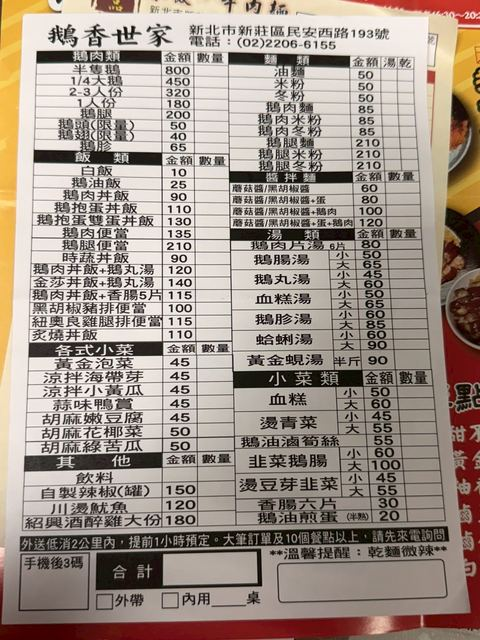
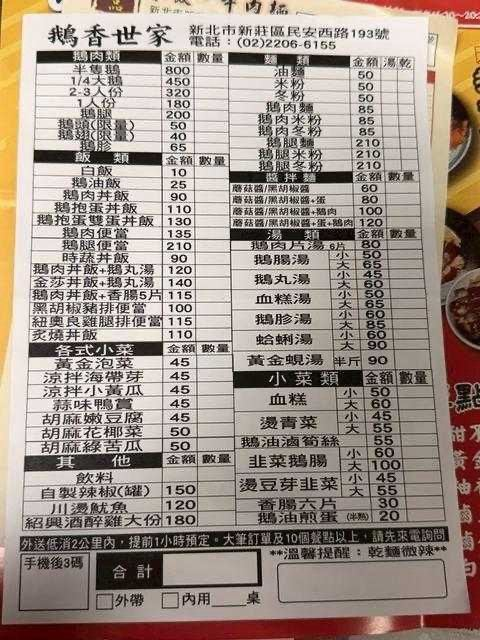
生活/吃 新增4家（呷尚宝、勁牛肉麵館、吃吃台式丼飯、錦涼麵），鵝香世家換清晰版菜單照

diff --git a/docs/index.html b/docs/index.html
@@ -289,7 +289,7 @@
 <div class="toast" id="toast"></div>
 
 <script>
-const DATA = [{"id":"值班","name":"值班","icon":"","hideLabel":true,"categories":[{"id":"值班/懶到底","name":"懶到底","icon":"⏱","type":"embed","desc":"值班時段任務清單，跨裝置即時同步","body":"","items":[],"files":[],"images":[],"works":[],"embed":"assets/%E5%80%BC%E7%8F%AD/%E6%87%B6%E5%88%B0%E5%BA%95/%E6%87%B6%E5%88%B0%E5%BA%95.html","count":0,"search":"懶到底 值班時段任務清單，跨裝置即時同步 "}]},{"id":"生活","name":"生活","icon":"","hideLabel":false,"categories":[{"id":"生活/吃","name":"吃","icon":"","type":"gallery","desc":"","body":"","items":[{"id":"生活/吃/中港牛肉麵","title":"中港牛肉麵","img":"assets/%E7%94%9F%E6%B4%BB/%E5%90%83/%E4%B8%AD%E6%B8%AF%E7%89%9B%E8%82%89%E9%BA%B5.jpg","thumb":"assets/%E7%94%9F%E6%B4%BB/%E5%90%83/thumbs/%E4%B8%AD%E6%B8%AF%E7%89%9B%E8%82%89%E9%BA%B5.jpg","phone":"","address":"","tags":[],"note":"","files":[],"search":"中港牛肉麵    "},{"id":"生活/吃/傳品","title":"傳品","img":"assets/%E7%94%9F%E6%B4%BB/%E5%90%83/%E5%82%B3%E5%93%81.jpg","thumb":"assets/%E7%94%9F%E6%B4%BB/%E5%90%83/thumbs/%E5%82%B3%E5%93%81.jpg","phone":"","address":"","tags":[],"note":"","files":[],"search":"傳品    "},{"id":"生活/吃/天香腿庫飯","title":"天香腿庫飯","img":"assets/%E7%94%9F%E6%B4%BB/%E5%90%83/%E5%A4%A9%E9%A6%99%E8%85%BF%E5%BA%AB%E9%A3%AF.jpg","thumb":"assets/%E7%94%9F%E6%B4%BB/%E5%90%83/thumbs/%E5%A4%A9%E9%A6%99%E8%85%BF%E5%BA%AB%E9%A3%AF.jpg","phone":"","address":"","tags":[],"note":"","files":[],"search":"天香腿庫飯    "},{"id":"生活/吃/尼好","title":"尼好","img":"assets/%E7%94%9F%E6%B4%BB/%E5%90%83/%E5%B0%BC%E5%A5%BD.jpg","thumb":"assets/%E7%94%9F%E6%B4%BB/%E5%90%83/thumbs/%E5%B0%BC%E5%A5%BD.jpg","phone":"","address":"","tags":[],"note":"","files":[],"search":"尼好    "},{"id":"生活/吃/川豫","title":"川豫","img":"assets/%E7%94%9F%E6%B4%BB/%E5%90%83/%E5%B7%9D%E8%B1%AB.jpg","thumb":"assets/%E7%94%9F%E6%B4%BB/%E5%90%83/thumbs/%E5%B7%9D%E8%B1%AB.jpg","phone":"","address":"","tags":[],"note":"","files":[],"search":"川豫    "},{"id":"生活/吃/帝品水餃牛肉麵","title":"帝品水餃牛肉麵","img":"assets/%E7%94%9F%E6%B4%BB/%E5%90%83/%E5%B8%9D%E5%93%81%E6%B0%B4%E9%A4%83%E7%89%9B%E8%82%89%E9%BA%B5.jpg","thumb":"assets/%E7%94%9F%E6%B4%BB/%E5%90%83/thumbs/%E5%B8%9D%E5%93%81%E6%B0%B4%E9%A4%83%E7%89%9B%E8%82%89%E9%BA%B5.jpg","phone":"","address":"","tags":[],"note":"","files":[],"search":"帝品水餃牛肉麵    "},{"id":"生活/吃/文寶鵝肉館","title":"文寶鵝肉館","img":"assets/%E7%94%9F%E6%B4%BB/%E5%90%83/%E6%96%87%E5%AF%B6%E9%B5%9D%E8%82%89%E9%A4%A8.jpg","thumb":"assets/%E7%94%9F%E6%B4%BB/%E5%90%83/thumbs/%E6%96%87%E5%AF%B6%E9%B5%9D%E8%82%89%E9%A4%A8.jpg","phone":"","address":"","tags":[],"note":"","files":[],"search":"文寶鵝肉館    "},{"id":"生活/吃/炒燴香","title":"炒燴香","img":"assets/%E7%94%9F%E6%B4%BB/%E5%90%83/%E7%82%92%E7%87%B4%E9%A6%99.jpg","thumb":"assets/%E7%94%9F%E6%B4%BB/%E5%90%83/thumbs/%E7%82%92%E7%87%B4%E9%A6%99.jpg","phone":"","address":"","tags":[],"note":"","files":[],"search":"炒燴香    "},{"id":"生活/吃/鐵皮屋","title":"鐵皮屋","img":"assets/%E7%94%9F%E6%B4%BB/%E5%90%83/%E9%90%B5%E7%9A%AE%E5%B1%8B.jpg","thumb":"assets/%E7%94%9F%E6%B4%BB/%E5%90%83/thumbs/%E9%90%B5%E7%9A%AE%E5%B1%8B.jpg","phone":"","address":"","tags":[],"note":"","files":[],"search":"鐵皮屋    "},{"id":"生活/吃/阿忠","title":"阿忠","img":"assets/%E7%94%9F%E6%B4%BB/%E5%90%83/%E9%98%BF%E5%BF%A0.jpg","thumb":"assets/%E7%94%9F%E6%B4%BB/%E5%90%83/thumbs/%E9%98%BF%E5%BF%A0.jpg","phone":"","address":"","tags":[],"note":"","files":[],"search":"阿忠    "},{"id":"生活/吃/雙鳳","title":"雙鳳","img":"assets/%E7%94%9F%E6%B4%BB/%E5%90%83/%E9%9B%99%E9%B3%B3.jpg","thumb":"assets/%E7%94%9F%E6%B4%BB/%E5%90%83/thumbs/%E9%9B%99%E9%B3%B3.jpg","phone":"","address":"","tags":[],"note":"","files":[],"search":"雙鳳    "},{"id":"生活/吃/香港鳳翔燒臘","title":"香港鳳翔燒臘","img":"assets/%E7%94%9F%E6%B4%BB/%E5%90%83/%E9%A6%99%E6%B8%AF%E9%B3%B3%E7%BF%94%E7%87%92%E8%87%98.jpg","thumb":"assets/%E7%94%9F%E6%B4%BB/%E5%90%83/thumbs/%E9%A6%99%E6%B8%AF%E9%B3%B3%E7%BF%94%E7%87%92%E8%87%98.jpg","phone":"","address":"","tags":[],"note":"","files":[],"search":"香港鳳翔燒臘    "},{"id":"生活/吃/鵝香世家","title":"鵝香世家","img":"assets/%E7%94%9F%E6%B4%BB/%E5%90%83/%E9%B5%9D%E9%A6%99%E4%B8%96%E5%AE%B6.jpg","thumb":"assets/%E7%94%9F%E6%B4%BB/%E5%90%83/thumbs/%E9%B5%9D%E9%A6%99%E4%B8%96%E5%AE%B6.jpg","phone":"","address":"","tags":[],"note":"","files":[],"search":"鵝香世家    "}],"files":[],"images":[],"works":[],"embed":"","count":13,"search":"吃  "},{"id":"生活/喝","name":"喝","icon":"","type":"gallery","desc":"","body":"","items":[{"id":"生活/喝/一沫日","title":"一沫日","img":"assets/%E7%94%9F%E6%B4%BB/%E5%96%9D/%E4%B8%80%E6%B2%AB%E6%97%A5.jpg","thumb":"assets/%E7%94%9F%E6%B4%BB/%E5%96%9D/thumbs/%E4%B8%80%E6%B2%AB%E6%97%A5.jpg","phone":"","address":"","tags":[],"note":"","files":[],"search":"一沫日    "},{"id":"生活/喝/參杯","title":"參杯","img":"assets/%E7%94%9F%E6%B4%BB/%E5%96%9D/%E5%8F%83%E6%9D%AF.jpg","thumb":"assets/%E7%94%9F%E6%B4%BB/%E5%96%9D/thumbs/%E5%8F%83%E6%9D%AF.jpg","phone":"","address":"","tags":[],"note":"","files":[],"search":"參杯    "},{"id":"生活/喝/小茶齋","title":"小茶齋","img":"assets/%E7%94%9F%E6%B4%BB/%E5%96%9D/%E5%B0%8F%E8%8C%B6%E9%BD%8B.jpg","thumb":"assets/%E7%94%9F%E6%B4%BB/%E5%96%9D/thumbs/%E5%B0%8F%E8%8C%B6%E9%BD%8B.jpg","phone":"","address":"","tags":[],"note":"","files":[],"search":"小茶齋    "},{"id":"生活/喝/得正","title":"得正","img":"assets/%E7%94%9F%E6%B4%BB/%E5%96%9D/%E5%BE%97%E6%AD%A3.jpg","thumb":"assets/%E7%94%9F%E6%B4%BB/%E5%96%9D/thumbs/%E5%BE%97%E6%AD%A3.jpg","phone":"","address":"","tags":[],"note":"","files":[],"search":"得正    "},{"id":"生活/喝/沫飲","title":"沫飲","img":"assets/%E7%94%9F%E6%B4%BB/%E5%96%9D/%E6%B2%AB%E9%A3%B2.jpg","thumb":"assets/%E7%94%9F%E6%B4%BB/%E5%96%9D/thumbs/%E6%B2%AB%E9%A3%B2.jpg","phone":"","address":"","tags":[],"note":"","files":[],"search":"沫飲    "},{"id":"生活/喝/無名","title":"無名","img":"assets/%E7%94%9F%E6%B4%BB/%E5%96%9D/%E7%84%A1%E5%90%8D.jpg","thumb":"assets/%E7%94%9F%E6%B4%BB/%E5%96%9D/thumbs/%E7%84%A1%E5%90%8D.jpg","phone":"","address":"","tags":[],"note":"","files":[],"search":"無名    "},{"id":"生活/喝/紅茶老爹","title":"紅茶老爹","img":"assets/%E7%94%9F%E6%B4%BB/%E5%96%9D/%E7%B4%85%E8%8C%B6%E8%80%81%E7%88%B9.jpg","thumb":"assets/%E7%94%9F%E6%B4%BB/%E5%96%9D/thumbs/%E7%B4%85%E8%8C%B6%E8%80%81%E7%88%B9.jpg","phone":"","address":"","tags":[],"note":"","files":[],"search":"紅茶老爹    "},{"id":"生活/喝/金剛咖啡茶飲","title":"金剛咖啡茶飲","img":"assets/%E7%94%9F%E6%B4%BB/%E5%96%9D/%E9%87%91%E5%89%9B%E5%92%96%E5%95%A1%E8%8C%B6%E9%A3%B2.jpg","thumb":"assets/%E7%94%9F%E6%B4%BB/%E5%96%9D/thumbs/%E9%87%91%E5%89%9B%E5%92%96%E5%95%A1%E8%8C%B6%E9%A3%B2.jpg","phone":"","address":"","tags":[],"note":"","files":[],"search":"金剛咖啡茶飲    "}],"files":[],"images":[],"works":[],"embed":"","count":8,"search":"喝  "}]},{"id":"公務","name":"公務","icon":"","hideLabel":false,"categories":[{"id":"公務/明顯死亡","name":"明顯死亡","icon":"⚠","type":"doc","desc":"現場明顯死亡判定速查與通報公文","body":"","items":[],"files":[{"name":"緊急救護明顯死亡通報公文.pdf","stem":"緊急救護明顯死亡通報公文","ext":"PDF","size":"152.0 KB","url":"assets/%E5%85%AC%E5%8B%99/%E6%98%8E%E9%A1%AF%E6%AD%BB%E4%BA%A1/files/%E7%B7%8A%E6%80%A5%E6%95%91%E8%AD%B7%E6%98%8E%E9%A1%AF%E6%AD%BB%E4%BA%A1%E9%80%9A%E5%A0%B1%E5%85%AC%E6%96%87.pdf"}],"images":[{"full":"assets/%E5%85%AC%E5%8B%99/%E6%98%8E%E9%A1%AF%E6%AD%BB%E4%BA%A1/1-%E5%88%A4%E5%AE%9A%E9%80%9F%E6%9F%A5%E8%A1%A8.jpg","alt":"判定速查表"},{"full":"assets/%E5%85%AC%E5%8B%99/%E6%98%8E%E9%A1%AF%E6%AD%BB%E4%BA%A1/2-%E9%80%9A%E5%A0%B1%E5%85%AC%E6%96%87%E7%AC%AC1%E9%A0%81.jpg","alt":"通報公文第1頁"},{"full":"assets/%E5%85%AC%E5%8B%99/%E6%98%8E%E9%A1%AF%E6%AD%BB%E4%BA%A1/3-%E9%80%9A%E5%A0%B1%E5%85%AC%E6%96%87%E7%AC%AC2%E9%A0%81.jpg","alt":"通報公文第2頁"}],"works":[],"embed":"","count":1,"search":"明顯死亡 現場明顯死亡判定速查與通報公文  緊急救護明顯死亡通報公文.pdf 判定速查表 通報公文第1頁 通報公文第2頁"},{"id":"公務/動物","name":"動物","icon":"🐾","type":"gallery","desc":"送交動物切結書","body":"","items":[{"id":"公務/動物/送交動物切結書","title":"送交動物切結書","img":"assets/%E5%85%AC%E5%8B%99/%E5%8B%95%E7%89%A9/%E9%80%81%E4%BA%A4%E5%8B%95%E7%89%A9%E5%88%87%E7%B5%90%E6%9B%B8.jpg","thumb":"assets/%E5%85%AC%E5%8B%99/%E5%8B%95%E7%89%A9/thumbs/%E9%80%81%E4%BA%A4%E5%8B%95%E7%89%A9%E5%88%87%E7%B5%90%E6%9B%B8.jpg","phone":"","address":"","tags":["動保處"],"note":"<p><strong>收件前：需要拍下送來民眾的身分證正面。</strong></p>\n<p>動保處電話：<a href=\"tel:0229596353\" target=\"_blank\" rel=\"noopener\">02-2959-6353</a></p>","files":[{"name":"新北市送交動物切結書.pdf","stem":"新北市送交動物切結書","ext":"PDF","size":"80.7 KB","url":"assets/%E5%85%AC%E5%8B%99/%E5%8B%95%E7%89%A9/%E9%80%81%E4%BA%A4%E5%8B%95%E7%89%A9%E5%88%87%E7%B5%90%E6%9B%B8/%E6%96%B0%E5%8C%97%E5%B8%82%E9%80%81%E4%BA%A4%E5%8B%95%E7%89%A9%E5%88%87%E7%B5%90%E6%9B%B8.pdf"}],"search":"送交動物切結書  動保處 **收件前：需要拍下送來民眾的身分證正面。**\n\n動保處電話：[02-2959-6353](tel:0229596353) 新北市送交動物切結書.pdf"}],"files":[],"images":[],"works":[],"embed":"","count":1,"search":"動物 送交動物切結書 "},{"id":"公務/AED上傳","name":"AED上傳","icon":"🫀","type":"doc","desc":"AED（ZOLL）資料上傳與匯出流程","body":"","items":[],"files":[],"images":[{"full":"assets/%E5%85%AC%E5%8B%99/AED%E4%B8%8A%E5%82%B3/1.jpg","alt":"1"},{"full":"assets/%E5%85%AC%E5%8B%99/AED%E4%B8%8A%E5%82%B3/2.jpg","alt":"2"},{"full":"assets/%E5%85%AC%E5%8B%99/AED%E4%B8%8A%E5%82%B3/3.jpg","alt":"3"},{"full":"assets/%E5%85%AC%E5%8B%99/AED%E4%B8%8A%E5%82%B3/4.jpg","alt":"4"},{"full":"assets/%E5%85%AC%E5%8B%99/AED%E4%B8%8A%E5%82%B3/5.jpg","alt":"5"},{"full":"assets/%E5%85%AC%E5%8B%99/AED%E4%B8%8A%E5%82%B3/6.jpg","alt":"6"}],"works":[],"embed":"","count":0,"search":"aed上傳 aed（zoll）資料上傳與匯出流程  1 2 3 4 5 6"},{"id":"公務/工作","name":"工作","icon":"📝","type":"work","desc":"值班、常訓、宣導、肌力訓練、火警範本，點「複製文字」貼到 LINE 群組","body":"","items":[],"files":[],"images":[],"works":[{"title":"值班工作","text":"1. EMS*1\n2.無線電交接正確\n3.維護駐地人車安全管制\n4. 45車、46車在隊"},{"title":"常訓電子工作","text":"1.常訓時間:1500~1700\n2.常訓地點:分隊駐地\n3.常訓科目:術科、學科訓練\n4.常訓內容:\n5.常訓教官:張家瑋、劉家權、李枝青小隊長\n6.訓練人員:共5人。"},{"title":"宣導工作","text":"一、出勤人員:隊員\n二、宣導地點:\n三、宣導時間:\n四、宣導項目:\n五、宣導人次:人"},{"title":"肌力訓練工作","text":"1.常訓時間:1700~2100\n2.常訓地點:分隊駐地\n3.常訓科目:肌力訓練\n4.常訓內容: 體能訓練\n5.常訓教官:劉家權小隊長"},{"title":"火警工作","text":"1.出勤時間:\n2.地點: 新北市新莊區\n3.出動人車:11.16.61.31.91警消5名\n4.帶隊官:福營678號\n5.火場安全管理機制:\n6.現場狀況:\n7.搶救作為:"}],"embed":"","count":5,"search":"工作 值班、常訓、宣導、肌力訓練、火警範本，點「複製文字」貼到 line 群組 ## 值班工作\n1. ems*1\n2.無線電交接正確\n3.維護駐地人車安全管制\n4. 45車、46車在隊\n\n## 常訓電子工作\n1.常訓時間:1500~1700\n2.常訓地點:分隊駐地\n3.常訓科目:術科、學科訓練\n4.常訓內容:\n5.常訓教官:張家瑋、劉家權、李枝青小隊長\n6.訓練人員:共5人。\n\n## 宣導工作\n一、出勤人員:隊員\n二、宣導地點:\n三、宣導時間:\n四、宣導項目:\n五、宣導人次:人\n\n## 肌力訓練工作\n1.常訓時間:1700~2100\n2.常訓地點:分隊駐地\n3.常訓科目:肌力訓練\n4.常訓內容: 體能訓練\n5.常訓教官:劉家權小隊長\n\n## 火警工作\n1.出勤時間:\n2.地點: 新北市新莊區\n3.出動人車:11.16.61.31.91警消5名\n4.帶隊官:福營678號\n5.火場安全管理機制:\n6.現場狀況:\n7.搶救作為:"},{"id":"公務/扣床","name":"扣床","icon":"🛏","type":"doc","desc":"扣床、借床、取床標準流程與各院電話，點電話直接撥打","body":"<h2>電話確認（點擊直接撥打）</h2>\n<ul class=\"bullets\"><li>中港：<a href=\"tel:0285216119,5213\" target=\"_blank\" rel=\"noopener\">02-8521-6119 轉 5213</a></li><li>文化：<a href=\"tel:0226089803,5225\" target=\"_blank\" rel=\"noopener\">02-2608-9803 轉 5225</a></li><li>林口：<a href=\"tel:0226011166,5226\" target=\"_blank\" rel=\"noopener\">02-2601-1166 轉 5226</a></li></ul>","items":[],"files":[],"images":[{"full":"assets/%E5%85%AC%E5%8B%99/%E6%89%A3%E5%BA%8A/1.%E6%89%A3%E5%BA%8A%E3%80%81%E5%80%9F%E5%BA%8A%E6%B5%81%E7%A8%8B.jpg","alt":"1.扣床、借床流程"},{"full":"assets/%E5%85%AC%E5%8B%99/%E6%89%A3%E5%BA%8A/2.%E5%8F%96%E5%BA%8A%E6%B5%81%E7%A8%8B.jpg","alt":"2.取床流程"},{"full":"assets/%E5%85%AC%E5%8B%99/%E6%89%A3%E5%BA%8A/3.%E6%B2%92%E5%BA%8A%E6%B5%81%E7%A8%8B.jpg","alt":"3.沒床流程"},{"full":"assets/%E5%85%AC%E5%8B%99/%E6%89%A3%E5%BA%8A/4.%E6%9E%97%E5%8F%A3%E9%95%B7%E5%BA%9A%E7%89%B9%E6%AE%8A%E6%B5%81%E7%A8%8B.jpg","alt":"4.林口長庚特殊流程"}],"works":[],"embed":"","count":0,"search":"扣床 扣床、借床、取床標準流程與各院電話，點電話直接撥打 ## 電話確認（點擊直接撥打）\n- 中港：[02-8521-6119 轉 5213](tel:0285216119,5213)\n- 文化：[02-2608-9803 轉 5225](tel:0226089803,5225)\n- 林口：[02-2601-1166 轉 5226](tel:0226011166,5226) 1.扣床、借床流程 2.取床流程 3.沒床流程 4.林口長庚特殊流程"},{"id":"公務/業務職掌","name":"業務職掌","icon":"📋","type":"doc","desc":"依業務科別查詢承辦人，115.08.01 第五版","body":"<h2>小隊長綜理督導</h2>\n<ul class=\"bullets\"><li>綜理本分隊各項勤、業務工作 → <strong>張家瑋</strong></li><li>業管及督導本分隊搶救科、職安室、救護科、指揮中心、宣導科、人事室業務 → <strong>劉家權</strong></li><li>業管及督導本分隊訓練科、資通科、整備科、滅災科、火災鑑識中心、車輛保養中心、會計室業務 → <strong>李枝青</strong></li></ul>\n<h2>會計室</h2>\n<ul class=\"bullets\"><li>總務 → <strong>蔡宗延</strong></li></ul>\n<h2>秘書室</h2>\n<ul class=\"bullets\"><li>水電統計、廳舍修繕、財產及物品管理 → <strong>蔡宗延</strong></li><li>伙食管理、簿冊及文書檔案管理 → <strong>蘇偉銘</strong></li></ul>\n<h2>政風室</h2>\n<ul class=\"bullets\"><li>銅鏡專案 → <strong>蔡宗延</strong></li></ul>\n<h2>資通科</h2>\n<ul class=\"bullets\"><li>資通訊及無線電管理 → <strong>賴啟宏</strong></li></ul>\n<h2>整備科</h2>\n<ul class=\"bullets\"><li>災情查通報、社區防災演習支援規劃 → <strong>賴啟宏</strong></li></ul>\n<h2>滅災科</h2>\n<ul class=\"bullets\"><li>防災企業、防災社區、地震體驗車 → <strong>賴啟宏</strong></li></ul>\n<h2>救護科</h2>\n<ul class=\"bullets\"><li>救護紀錄表（EPCR）審核管理（紙本）、救護月報表（慰問卡、救護車行車紀錄器、教學及複訓時數成果） → <strong>柯醒翰</strong></li><li>救護（防疫）器耗材管理、OHCA及特殊案件影片彙整、救護品管案件、救護CPR宣導、救護交辦案件 → <strong>林景煒</strong></li></ul>\n<h2>預防科</h2>\n<ul class=\"bullets\"><li>防火管理資料受理＆審核、公安聯合稽查 → <strong>徐子軒</strong></li><li>防火（防溺）宣導業務、清明專案、防災青年團招募 → <strong>吳姵岫</strong></li><li>脆弱家庭提報、工廠診斷、防災報馬仔、住警器專案、災後訪視、學生賃居專案 → <strong>喻瑋萱</strong></li><li>服務區專案、安管系統管理、未成立管委會場所管制、停歇系統管理 → <strong>張浩偉</strong></li></ul>\n<h2>危管科</h2>\n<ul class=\"bullets\"><li>爆竹煙火管理、宮廟查察、違建活動 → <strong>吳姵岫</strong></li><li>熱水器補助審查、燃氣熱水器承裝業檢查、CO居訪、潛勢戶複查 → <strong>張家豪</strong></li><li>危險物品暨可燃性氣體、液化石油氣供應場所及瓦斯行查察 → <strong>楊典元</strong></li></ul>\n<h2>搶救科</h2>\n<ul class=\"bullets\"><li>水源業務 → <strong>林育叡</strong></li><li>搶救裝備器材管理、盤點系統 → <strong>陳矩蕙</strong></li><li>火災搶救資料庫製作管理、分隊代表隊、大隊實兵演練、搶救類案件敘獎 → <strong>謝佳諫</strong></li></ul>\n<h2>指揮中心</h2>\n<ul class=\"bullets\"><li>指揮中心相關業務 → <strong>林景煒</strong></li></ul>\n<h2>人事室</h2>\n<ul class=\"bullets\"><li>假表管理、超勤、不休假獎金、國旅卡核銷管制、健康檢查核銷作業、替代役管理、新生報表 → <strong>朱文豪</strong></li><li>分隊康樂活動辦理 → <strong>楊典元</strong></li></ul>\n<h2>火鑑中心</h2>\n<ul class=\"bullets\"><li>火調筆錄、火災證明管理、子女獎學金 → <strong>喻瑋萱</strong></li></ul>\n<h2>車保中心</h2>\n<ul class=\"bullets\"><li>車輛保養管控、油料核銷及路碼表登錄、行車紀錄影像抽測管理、人員駕駛訓練 → <strong>蘇偉銘</strong></li></ul>\n<h2>職安室</h2>\n<ul class=\"bullets\"><li>職安股業務協辦 → <strong>謝佳諫</strong></li></ul>\n<h2>訓練科</h2>\n<ul class=\"bullets\"><li>訓練科相關業務 → <strong>張睿哲</strong></li></ul>\n<h2>民力科</h2>\n<ul class=\"bullets\"><li>義消業務承辦 → <strong>尤睿蓁</strong></li><li>防宣義消業務辦 → <strong>葉奕鑫</strong></li></ul>","items":[],"files":[],"images":[],"works":[],"embed":"","count":0,"search":"業務職掌 依業務科別查詢承辦人，115.08.01 第五版 ## 小隊長綜理督導\n- 綜理本分隊各項勤、業務工作 → **張家瑋**\n- 業管及督導本分隊搶救科、職安室、救護科、指揮中心、宣導科、人事室業務 → **劉家權**\n- 業管及督導本分隊訓練科、資通科、整備科、滅災科、火災鑑識中心、車輛保養中心、會計室業務 → **李枝青**\n\n## 會計室\n- 總務 → **蔡宗延**\n\n## 秘書室\n- 水電統計、廳舍修繕、財產及物品管理 → **蔡宗延**\n- 伙食管理、簿冊及文書檔案管理 → **蘇偉銘**\n\n## 政風室\n- 銅鏡專案 → **蔡宗延**\n\n## 資通科\n- 資通訊及無線電管理 → **賴啟宏**\n\n## 整備科\n- 災情查通報、社區防災演習支援規劃 → **賴啟宏**\n\n## 滅災科\n- 防災企業、防災社區、地震體驗車 → **賴啟宏**\n\n## 救護科\n- 救護紀錄表（epcr）審核管理（紙本）、救護月報表（慰問卡、救護車行車紀錄器、教學及複訓時數成果） → **柯醒翰**\n- 救護（防疫）器耗材管理、ohca及特殊案件影片彙整、救護品管案件、救護cpr宣導、救護交辦案件 → **林景煒**\n\n## 預防科\n- 防火管理資料受理＆審核、公安聯合稽查 → **徐子軒**\n- 防火（防溺）宣導業務、清明專案、防災青年團招募 → **吳姵岫**\n- 脆弱家庭提報、工廠診斷、防災報馬仔、住警器專案、災後訪視、學生賃居專案 → **喻瑋萱**\n- 服務區專案、安管系統管理、未成立管委會場所管制、停歇系統管理 → **張浩偉**\n\n## 危管科\n- 爆竹煙火管理、宮廟查察、違建活動 → **吳姵岫**\n- 熱水器補助審查、燃氣熱水器承裝業檢查、co居訪、潛勢戶複查 → **張家豪**\n- 危險物品暨可燃性氣體、液化石油氣供應場所及瓦斯行查察 → **楊典元**\n\n## 搶救科\n- 水源業務 → **林育叡**\n- 搶救裝備器材管理、盤點系統 → **陳矩蕙**\n- 火災搶救資料庫製作管理、分隊代表隊、大隊實兵演練、搶救類案件敘獎 → **謝佳諫**\n\n## 指揮中心\n- 指揮中心相關業務 → **林景煒**\n\n## 人事室\n- 假表管理、超勤、不休假獎金、國旅卡核銷管制、健康檢查核銷作業、替代役管理、新生報表 → **朱文豪**\n- 分隊康樂活動辦理 → **楊典元**\n\n## 火鑑中心\n- 火調筆錄、火災證明管理、子女獎學金 → **喻瑋萱**\n\n## 車保中心\n- 車輛保養管控、油料核銷及路碼表登錄、行車紀錄影像抽測管理、人員駕駛訓練 → **蘇偉銘**\n\n## 職安室\n- 職安股業務協辦 → **謝佳諫**\n\n## 訓練科\n- 訓練科相關業務 → **張睿哲**\n\n## 民力科\n- 義消業務承辦 → **尤睿蓁**\n- 防宣義消業務辦 → **葉奕鑫**"},{"id":"公務/換車操作步驟","name":"換車操作步驟","icon":"🚑","type":"doc","desc":"EPCR 系統更換車輛代碼流程與注意事項","body":"","items":[],"files":[],"images":[{"full":"assets/%E5%85%AC%E5%8B%99/%E6%8F%9B%E8%BB%8A%E6%93%8D%E4%BD%9C%E6%AD%A5%E9%A9%9F/1-%E6%93%8D%E4%BD%9C%E8%AA%AA%E6%98%8E1.jpg","alt":"操作說明1"},{"full":"assets/%E5%85%AC%E5%8B%99/%E6%8F%9B%E8%BB%8A%E6%93%8D%E4%BD%9C%E6%AD%A5%E9%A9%9F/2-%E6%93%8D%E4%BD%9C%E8%AA%AA%E6%98%8E2.jpg","alt":"操作說明2"},{"full":"assets/%E5%85%AC%E5%8B%99/%E6%8F%9B%E8%BB%8A%E6%93%8D%E4%BD%9C%E6%AD%A5%E9%A9%9F/3-%E6%B3%A8%E6%84%8F%E4%BA%8B%E9%A0%851.jpg","alt":"注意事項1"},{"full":"assets/%E5%85%AC%E5%8B%99/%E6%8F%9B%E8%BB%8A%E6%93%8D%E4%BD%9C%E6%AD%A5%E9%A9%9F/4-%E6%B3%A8%E6%84%8F%E4%BA%8B%E9%A0%852.jpg","alt":"注意事項2"}],"works":[{"title":"換車回報","text":"福營分隊，福營91(車牌)已自行變更為福營99(車牌)"}],"embed":"","count":0,"search":"換車操作步驟 epcr 系統更換車輛代碼流程與注意事項 ## 📋 換車回報\n福營分隊，福營91(車牌)已自行變更為福營99(車牌) 操作說明1 操作說明2 注意事項1 注意事項2"}]}];
+const DATA = [{"id":"值班","name":"值班","icon":"","hideLabel":true,"categories":[{"id":"值班/懶到底","name":"懶到底","icon":"⏱","type":"embed","desc":"值班時段任務清單，跨裝置即時同步","body":"","items":[],"files":[],"images":[],"works":[],"embed":"assets/%E5%80%BC%E7%8F%AD/%E6%87%B6%E5%88%B0%E5%BA%95/%E6%87%B6%E5%88%B0%E5%BA%95.html","count":0,"search":"懶到底 值班時段任務清單，跨裝置即時同步 "}]},{"id":"生活","name":"生活","icon":"","hideLabel":false,"categories":[{"id":"生活/吃","name":"吃","icon":"","type":"gallery","desc":"","body":"","items":[{"id":"生活/吃/中港牛肉麵","title":"中港牛肉麵","img":"assets/%E7%94%9F%E6%B4%BB/%E5%90%83/%E4%B8%AD%E6%B8%AF%E7%89%9B%E8%82%89%E9%BA%B5.jpg","thumb":"assets/%E7%94%9F%E6%B4%BB/%E5%90%83/thumbs/%E4%B8%AD%E6%B8%AF%E7%89%9B%E8%82%89%E9%BA%B5.jpg","phone":"","address":"","tags":[],"note":"","files":[],"search":"中港牛肉麵    "},{"id":"生活/吃/傳品","title":"傳品","img":"assets/%E7%94%9F%E6%B4%BB/%E5%90%83/%E5%82%B3%E5%93%81.jpg","thumb":"assets/%E7%94%9F%E6%B4%BB/%E5%90%83/thumbs/%E5%82%B3%E5%93%81.jpg","phone":"","address":"","tags":[],"note":"","files":[],"search":"傳品    "},{"id":"生活/吃/勁牛肉麵館","title":"勁牛肉麵館","img":"assets/%E7%94%9F%E6%B4%BB/%E5%90%83/%E5%8B%81%E7%89%9B%E8%82%89%E9%BA%B5%E9%A4%A8.jpg","thumb":"assets/%E7%94%9F%E6%B4%BB/%E5%90%83/thumbs/%E5%8B%81%E7%89%9B%E8%82%89%E9%BA%B5%E9%A4%A8.jpg","phone":"","address":"","tags":[],"note":"","files":[],"search":"勁牛肉麵館    "},{"id":"生活/吃/吃吃台式丼飯","title":"吃吃台式丼飯","img":"assets/%E7%94%9F%E6%B4%BB/%E5%90%83/%E5%90%83%E5%90%83%E5%8F%B0%E5%BC%8F%E4%B8%BC%E9%A3%AF.jpg","thumb":"assets/%E7%94%9F%E6%B4%BB/%E5%90%83/thumbs/%E5%90%83%E5%90%83%E5%8F%B0%E5%BC%8F%E4%B8%BC%E9%A3%AF.jpg","phone":"","address":"","tags":[],"note":"","files":[],"search":"吃吃台式丼飯    "},{"id":"生活/吃/呷尚宝","title":"呷尚宝","img":"assets/%E7%94%9F%E6%B4%BB/%E5%90%83/%E5%91%B7%E5%B0%9A%E5%AE%9D.jpg","thumb":"assets/%E7%94%9F%E6%B4%BB/%E5%90%83/thumbs/%E5%91%B7%E5%B0%9A%E5%AE%9D.jpg","phone":"","address":"","tags":[],"note":"","files":[],"search":"呷尚宝    "},{"id":"生活/吃/天香腿庫飯","title":"天香腿庫飯","img":"assets/%E7%94%9F%E6%B4%BB/%E5%90%83/%E5%A4%A9%E9%A6%99%E8%85%BF%E5%BA%AB%E9%A3%AF.jpg","thumb":"assets/%E7%94%9F%E6%B4%BB/%E5%90%83/thumbs/%E5%A4%A9%E9%A6%99%E8%85%BF%E5%BA%AB%E9%A3%AF.jpg","phone":"","address":"","tags":[],"note":"","files":[],"search":"天香腿庫飯    "},{"id":"生活/吃/尼好","title":"尼好","img":"assets/%E7%94%9F%E6%B4%BB/%E5%90%83/%E5%B0%BC%E5%A5%BD.jpg","thumb":"assets/%E7%94%9F%E6%B4%BB/%E5%90%83/thumbs/%E5%B0%BC%E5%A5%BD.jpg","phone":"","address":"","tags":[],"note":"","files":[],"search":"尼好    "},{"id":"生活/吃/川豫","title":"川豫","img":"assets/%E7%94%9F%E6%B4%BB/%E5%90%83/%E5%B7%9D%E8%B1%AB.jpg","thumb":"assets/%E7%94%9F%E6%B4%BB/%E5%90%83/thumbs/%E5%B7%9D%E8%B1%AB.jpg","phone":"","address":"","tags":[],"note":"","files":[],"search":"川豫    "},{"id":"生活/吃/帝品水餃牛肉麵","title":"帝品水餃牛肉麵","img":"assets/%E7%94%9F%E6%B4%BB/%E5%90%83/%E5%B8%9D%E5%93%81%E6%B0%B4%E9%A4%83%E7%89%9B%E8%82%89%E9%BA%B5.jpg","thumb":"assets/%E7%94%9F%E6%B4%BB/%E5%90%83/thumbs/%E5%B8%9D%E5%93%81%E6%B0%B4%E9%A4%83%E7%89%9B%E8%82%89%E9%BA%B5.jpg","phone":"","address":"","tags":[],"note":"","files":[],"search":"帝品水餃牛肉麵    "},{"id":"生活/吃/文寶鵝肉館","title":"文寶鵝肉館","img":"assets/%E7%94%9F%E6%B4%BB/%E5%90%83/%E6%96%87%E5%AF%B6%E9%B5%9D%E8%82%89%E9%A4%A8.jpg","thumb":"assets/%E7%94%9F%E6%B4%BB/%E5%90%83/thumbs/%E6%96%87%E5%AF%B6%E9%B5%9D%E8%82%89%E9%A4%A8.jpg","phone":"","address":"","tags":[],"note":"","files":[],"search":"文寶鵝肉館    "},{"id":"生活/吃/炒燴香","title":"炒燴香","img":"assets/%E7%94%9F%E6%B4%BB/%E5%90%83/%E7%82%92%E7%87%B4%E9%A6%99.jpg","thumb":"assets/%E7%94%9F%E6%B4%BB/%E5%90%83/thumbs/%E7%82%92%E7%87%B4%E9%A6%99.jpg","phone":"","address":"","tags":[],"note":"","files":[],"search":"炒燴香    "},{"id":"生活/吃/錦涼麵","title":"錦涼麵","img":"assets/%E7%94%9F%E6%B4%BB/%E5%90%83/%E9%8C%A6%E6%B6%BC%E9%BA%B5.jpg","thumb":"assets/%E7%94%9F%E6%B4%BB/%E5%90%83/thumbs/%E9%8C%A6%E6%B6%BC%E9%BA%B5.jpg","phone":"","address":"","tags":[],"note":"","files":[],"search":"錦涼麵    "},{"id":"生活/吃/鐵皮屋","title":"鐵皮屋","img":"assets/%E7%94%9F%E6%B4%BB/%E5%90%83/%E9%90%B5%E7%9A%AE%E5%B1%8B.jpg","thumb":"assets/%E7%94%9F%E6%B4%BB/%E5%90%83/thumbs/%E9%90%B5%E7%9A%AE%E5%B1%8B.jpg","phone":"","address":"","tags":[],"note":"","files":[],"search":"鐵皮屋    "},{"id":"生活/吃/阿忠","title":"阿忠","img":"assets/%E7%94%9F%E6%B4%BB/%E5%90%83/%E9%98%BF%E5%BF%A0.jpg","thumb":"assets/%E7%94%9F%E6%B4%BB/%E5%90%83/thumbs/%E9%98%BF%E5%BF%A0.jpg","phone":"","address":"","tags":[],"note":"","files":[],"search":"阿忠    "},{"id":"生活/吃/雙鳳","title":"雙鳳","img":"assets/%E7%94%9F%E6%B4%BB/%E5%90%83/%E9%9B%99%E9%B3%B3.jpg","thumb":"assets/%E7%94%9F%E6%B4%BB/%E5%90%83/thumbs/%E9%9B%99%E9%B3%B3.jpg","phone":"","address":"","tags":[],"note":"","files":[],"search":"雙鳳    "},{"id":"生活/吃/香港鳳翔燒臘","title":"香港鳳翔燒臘","img":"assets/%E7%94%9F%E6%B4%BB/%E5%90%83/%E9%A6%99%E6%B8%AF%E9%B3%B3%E7%BF%94%E7%87%92%E8%87%98.jpg","thumb":"assets/%E7%94%9F%E6%B4%BB/%E5%90%83/thumbs/%E9%A6%99%E6%B8%AF%E9%B3%B3%E7%BF%94%E7%87%92%E8%87%98.jpg","phone":"","address":"","tags":[],"note":"","files":[],"search":"香港鳳翔燒臘    "},{"id":"生活/吃/鵝香世家","title":"鵝香世家","img":"assets/%E7%94%9F%E6%B4%BB/%E5%90%83/%E9%B5%9D%E9%A6%99%E4%B8%96%E5%AE%B6.jpg","thumb":"assets/%E7%94%9F%E6%B4%BB/%E5%90%83/thumbs/%E9%B5%9D%E9%A6%99%E4%B8%96%E5%AE%B6.jpg","phone":"","address":"","tags":[],"note":"","files":[],"search":"鵝香世家    "}],"files":[],"images":[],"works":[],"embed":"","count":17,"search":"吃  "},{"id":"生活/喝","name":"喝","icon":"","type":"gallery","desc":"","body":"","items":[{"id":"生活/喝/一沫日","title":"一沫日","img":"assets/%E7%94%9F%E6%B4%BB/%E5%96%9D/%E4%B8%80%E6%B2%AB%E6%97%A5.jpg","thumb":"assets/%E7%94%9F%E6%B4%BB/%E5%96%9D/thumbs/%E4%B8%80%E6%B2%AB%E6%97%A5.jpg","phone":"","address":"","tags":[],"note":"","files":[],"search":"一沫日    "},{"id":"生活/喝/參杯","title":"參杯","img":"assets/%E7%94%9F%E6%B4%BB/%E5%96%9D/%E5%8F%83%E6%9D%AF.jpg","thumb":"assets/%E7%94%9F%E6%B4%BB/%E5%96%9D/thumbs/%E5%8F%83%E6%9D%AF.jpg","phone":"","address":"","tags":[],"note":"","files":[],"search":"參杯    "},{"id":"生活/喝/小茶齋","title":"小茶齋","img":"assets/%E7%94%9F%E6%B4%BB/%E5%96%9D/%E5%B0%8F%E8%8C%B6%E9%BD%8B.jpg","thumb":"assets/%E7%94%9F%E6%B4%BB/%E5%96%9D/thumbs/%E5%B0%8F%E8%8C%B6%E9%BD%8B.jpg","phone":"","address":"","tags":[],"note":"","files":[],"search":"小茶齋    "},{"id":"生活/喝/得正","title":"得正","img":"assets/%E7%94%9F%E6%B4%BB/%E5%96%9D/%E5%BE%97%E6%AD%A3.jpg","thumb":"assets/%E7%94%9F%E6%B4%BB/%E5%96%9D/thumbs/%E5%BE%97%E6%AD%A3.jpg","phone":"","address":"","tags":[],"note":"","files":[],"search":"得正    "},{"id":"生活/喝/沫飲","title":"沫飲","img":"assets/%E7%94%9F%E6%B4%BB/%E5%96%9D/%E6%B2%AB%E9%A3%B2.jpg","thumb":"assets/%E7%94%9F%E6%B4%BB/%E5%96%9D/thumbs/%E6%B2%AB%E9%A3%B2.jpg","phone":"","address":"","tags":[],"note":"","files":[],"search":"沫飲    "},{"id":"生活/喝/無名","title":"無名","img":"assets/%E7%94%9F%E6%B4%BB/%E5%96%9D/%E7%84%A1%E5%90%8D.jpg","thumb":"assets/%E7%94%9F%E6%B4%BB/%E5%96%9D/thumbs/%E7%84%A1%E5%90%8D.jpg","phone":"","address":"","tags":[],"note":"","files":[],"search":"無名    "},{"id":"生活/喝/紅茶老爹","title":"紅茶老爹","img":"assets/%E7%94%9F%E6%B4%BB/%E5%96%9D/%E7%B4%85%E8%8C%B6%E8%80%81%E7%88%B9.jpg","thumb":"assets/%E7%94%9F%E6%B4%BB/%E5%96%9D/thumbs/%E7%B4%85%E8%8C%B6%E8%80%81%E7%88%B9.jpg","phone":"","address":"","tags":[],"note":"","files":[],"search":"紅茶老爹    "},{"id":"生活/喝/金剛咖啡茶飲","title":"金剛咖啡茶飲","img":"assets/%E7%94%9F%E6%B4%BB/%E5%96%9D/%E9%87%91%E5%89%9B%E5%92%96%E5%95%A1%E8%8C%B6%E9%A3%B2.jpg","thumb":"assets/%E7%94%9F%E6%B4%BB/%E5%96%9D/thumbs/%E9%87%91%E5%89%9B%E5%92%96%E5%95%A1%E8%8C%B6%E9%A3%B2.jpg","phone":"","address":"","tags":[],"note":"","files":[],"search":"金剛咖啡茶飲    "}],"files":[],"images":[],"works":[],"embed":"","count":8,"search":"喝  "}]},{"id":"公務","name":"公務","icon":"","hideLabel":false,"categories":[{"id":"公務/明顯死亡","name":"明顯死亡","icon":"⚠","type":"doc","desc":"現場明顯死亡判定速查與通報公文","body":"","items":[],"files":[{"name":"緊急救護明顯死亡通報公文.pdf","stem":"緊急救護明顯死亡通報公文","ext":"PDF","size":"152.0 KB","url":"assets/%E5%85%AC%E5%8B%99/%E6%98%8E%E9%A1%AF%E6%AD%BB%E4%BA%A1/files/%E7%B7%8A%E6%80%A5%E6%95%91%E8%AD%B7%E6%98%8E%E9%A1%AF%E6%AD%BB%E4%BA%A1%E9%80%9A%E5%A0%B1%E5%85%AC%E6%96%87.pdf"}],"images":[{"full":"assets/%E5%85%AC%E5%8B%99/%E6%98%8E%E9%A1%AF%E6%AD%BB%E4%BA%A1/1-%E5%88%A4%E5%AE%9A%E9%80%9F%E6%9F%A5%E8%A1%A8.jpg","alt":"判定速查表"},{"full":"assets/%E5%85%AC%E5%8B%99/%E6%98%8E%E9%A1%AF%E6%AD%BB%E4%BA%A1/2-%E9%80%9A%E5%A0%B1%E5%85%AC%E6%96%87%E7%AC%AC1%E9%A0%81.jpg","alt":"通報公文第1頁"},{"full":"assets/%E5%85%AC%E5%8B%99/%E6%98%8E%E9%A1%AF%E6%AD%BB%E4%BA%A1/3-%E9%80%9A%E5%A0%B1%E5%85%AC%E6%96%87%E7%AC%AC2%E9%A0%81.jpg","alt":"通報公文第2頁"}],"works":[],"embed":"","count":1,"search":"明顯死亡 現場明顯死亡判定速查與通報公文  緊急救護明顯死亡通報公文.pdf 判定速查表 通報公文第1頁 通報公文第2頁"},{"id":"公務/動物","name":"動物","icon":"🐾","type":"gallery","desc":"送交動物切結書","body":"","items":[{"id":"公務/動物/送交動物切結書","title":"送交動物切結書","img":"assets/%E5%85%AC%E5%8B%99/%E5%8B%95%E7%89%A9/%E9%80%81%E4%BA%A4%E5%8B%95%E7%89%A9%E5%88%87%E7%B5%90%E6%9B%B8.jpg","thumb":"assets/%E5%85%AC%E5%8B%99/%E5%8B%95%E7%89%A9/thumbs/%E9%80%81%E4%BA%A4%E5%8B%95%E7%89%A9%E5%88%87%E7%B5%90%E6%9B%B8.jpg","phone":"","address":"","tags":["動保處"],"note":"<p><strong>收件前：需要拍下送來民眾的身分證正面。</strong></p>\n<p>動保處電話：<a href=\"tel:0229596353\" target=\"_blank\" rel=\"noopener\">02-2959-6353</a></p>","files":[{"name":"新北市送交動物切結書.pdf","stem":"新北市送交動物切結書","ext":"PDF","size":"80.7 KB","url":"assets/%E5%85%AC%E5%8B%99/%E5%8B%95%E7%89%A9/%E9%80%81%E4%BA%A4%E5%8B%95%E7%89%A9%E5%88%87%E7%B5%90%E6%9B%B8/%E6%96%B0%E5%8C%97%E5%B8%82%E9%80%81%E4%BA%A4%E5%8B%95%E7%89%A9%E5%88%87%E7%B5%90%E6%9B%B8.pdf"}],"search":"送交動物切結書  動保處 **收件前：需要拍下送來民眾的身分證正面。**\n\n動保處電話：[02-2959-6353](tel:0229596353) 新北市送交動物切結書.pdf"}],"files":[],"images":[],"works":[],"embed":"","count":1,"search":"動物 送交動物切結書 "},{"id":"公務/AED上傳","name":"AED上傳","icon":"🫀","type":"doc","desc":"AED（ZOLL）資料上傳與匯出流程","body":"","items":[],"files":[],"images":[{"full":"assets/%E5%85%AC%E5%8B%99/AED%E4%B8%8A%E5%82%B3/1.jpg","alt":"1"},{"full":"assets/%E5%85%AC%E5%8B%99/AED%E4%B8%8A%E5%82%B3/2.jpg","alt":"2"},{"full":"assets/%E5%85%AC%E5%8B%99/AED%E4%B8%8A%E5%82%B3/3.jpg","alt":"3"},{"full":"assets/%E5%85%AC%E5%8B%99/AED%E4%B8%8A%E5%82%B3/4.jpg","alt":"4"},{"full":"assets/%E5%85%AC%E5%8B%99/AED%E4%B8%8A%E5%82%B3/5.jpg","alt":"5"},{"full":"assets/%E5%85%AC%E5%8B%99/AED%E4%B8%8A%E5%82%B3/6.jpg","alt":"6"}],"works":[],"embed":"","count":0,"search":"aed上傳 aed（zoll）資料上傳與匯出流程  1 2 3 4 5 6"},{"id":"公務/工作","name":"工作","icon":"📝","type":"work","desc":"值班、常訓、宣導、肌力訓練、火警範本，點「複製文字」貼到 LINE 群組","body":"","items":[],"files":[],"images":[],"works":[{"title":"值班工作","text":"1. EMS*1\n2.無線電交接正確\n3.維護駐地人車安全管制\n4. 45車、46車在隊"},{"title":"常訓電子工作","text":"1.常訓時間:1500~1700\n2.常訓地點:分隊駐地\n3.常訓科目:術科、學科訓練\n4.常訓內容:\n5.常訓教官:張家瑋、劉家權、李枝青小隊長\n6.訓練人員:共5人。"},{"title":"宣導工作","text":"一、出勤人員:隊員\n二、宣導地點:\n三、宣導時間:\n四、宣導項目:\n五、宣導人次:人"},{"title":"肌力訓練工作","text":"1.常訓時間:1700~2100\n2.常訓地點:分隊駐地\n3.常訓科目:肌力訓練\n4.常訓內容: 體能訓練\n5.常訓教官:劉家權小隊長"},{"title":"火警工作","text":"1.出勤時間:\n2.地點: 新北市新莊區\n3.出動人車:11.16.61.31.91警消5名\n4.帶隊官:福營678號\n5.火場安全管理機制:\n6.現場狀況:\n7.搶救作為:"}],"embed":"","count":5,"search":"工作 值班、常訓、宣導、肌力訓練、火警範本，點「複製文字」貼到 line 群組 ## 值班工作\n1. ems*1\n2.無線電交接正確\n3.維護駐地人車安全管制\n4. 45車、46車在隊\n\n## 常訓電子工作\n1.常訓時間:1500~1700\n2.常訓地點:分隊駐地\n3.常訓科目:術科、學科訓練\n4.常訓內容:\n5.常訓教官:張家瑋、劉家權、李枝青小隊長\n6.訓練人員:共5人。\n\n## 宣導工作\n一、出勤人員:隊員\n二、宣導地點:\n三、宣導時間:\n四、宣導項目:\n五、宣導人次:人\n\n## 肌力訓練工作\n1.常訓時間:1700~2100\n2.常訓地點:分隊駐地\n3.常訓科目:肌力訓練\n4.常訓內容: 體能訓練\n5.常訓教官:劉家權小隊長\n\n## 火警工作\n1.出勤時間:\n2.地點: 新北市新莊區\n3.出動人車:11.16.61.31.91警消5名\n4.帶隊官:福營678號\n5.火場安全管理機制:\n6.現場狀況:\n7.搶救作為:"},{"id":"公務/扣床","name":"扣床","icon":"🛏","type":"doc","desc":"扣床、借床、取床標準流程與各院電話，點電話直接撥打","body":"<h2>電話確認（點擊直接撥打）</h2>\n<ul class=\"bullets\"><li>中港：<a href=\"tel:0285216119,5213\" target=\"_blank\" rel=\"noopener\">02-8521-6119 轉 5213</a></li><li>文化：<a href=\"tel:0226089803,5225\" target=\"_blank\" rel=\"noopener\">02-2608-9803 轉 5225</a></li><li>林口：<a href=\"tel:0226011166,5226\" target=\"_blank\" rel=\"noopener\">02-2601-1166 轉 5226</a></li></ul>","items":[],"files":[],"images":[{"full":"assets/%E5%85%AC%E5%8B%99/%E6%89%A3%E5%BA%8A/1.%E6%89%A3%E5%BA%8A%E3%80%81%E5%80%9F%E5%BA%8A%E6%B5%81%E7%A8%8B.jpg","alt":"1.扣床、借床流程"},{"full":"assets/%E5%85%AC%E5%8B%99/%E6%89%A3%E5%BA%8A/2.%E5%8F%96%E5%BA%8A%E6%B5%81%E7%A8%8B.jpg","alt":"2.取床流程"},{"full":"assets/%E5%85%AC%E5%8B%99/%E6%89%A3%E5%BA%8A/3.%E6%B2%92%E5%BA%8A%E6%B5%81%E7%A8%8B.jpg","alt":"3.沒床流程"},{"full":"assets/%E5%85%AC%E5%8B%99/%E6%89%A3%E5%BA%8A/4.%E6%9E%97%E5%8F%A3%E9%95%B7%E5%BA%9A%E7%89%B9%E6%AE%8A%E6%B5%81%E7%A8%8B.jpg","alt":"4.林口長庚特殊流程"}],"works":[],"embed":"","count":0,"search":"扣床 扣床、借床、取床標準流程與各院電話，點電話直接撥打 ## 電話確認（點擊直接撥打）\n- 中港：[02-8521-6119 轉 5213](tel:0285216119,5213)\n- 文化：[02-2608-9803 轉 5225](tel:0226089803,5225)\n- 林口：[02-2601-1166 轉 5226](tel:0226011166,5226) 1.扣床、借床流程 2.取床流程 3.沒床流程 4.林口長庚特殊流程"},{"id":"公務/業務職掌","name":"業務職掌","icon":"📋","type":"doc","desc":"依業務科別查詢承辦人，115.08.01 第五版","body":"<h2>小隊長綜理督導</h2>\n<ul class=\"bullets\"><li>綜理本分隊各項勤、業務工作 → <strong>張家瑋</strong></li><li>業管及督導本分隊搶救科、職安室、救護科、指揮中心、宣導科、人事室業務 → <strong>劉家權</strong></li><li>業管及督導本分隊訓練科、資通科、整備科、滅災科、火災鑑識中心、車輛保養中心、會計室業務 → <strong>李枝青</strong></li></ul>\n<h2>會計室</h2>\n<ul class=\"bullets\"><li>總務 → <strong>蔡宗延</strong></li></ul>\n<h2>秘書室</h2>\n<ul class=\"bullets\"><li>水電統計、廳舍修繕、財產及物品管理 → <strong>蔡宗延</strong></li><li>伙食管理、簿冊及文書檔案管理 → <strong>蘇偉銘</strong></li></ul>\n<h2>政風室</h2>\n<ul class=\"bullets\"><li>銅鏡專案 → <strong>蔡宗延</strong></li></ul>\n<h2>資通科</h2>\n<ul class=\"bullets\"><li>資通訊及無線電管理 → <strong>賴啟宏</strong></li></ul>\n<h2>整備科</h2>\n<ul class=\"bullets\"><li>災情查通報、社區防災演習支援規劃 → <strong>賴啟宏</strong></li></ul>\n<h2>滅災科</h2>\n<ul class=\"bullets\"><li>防災企業、防災社區、地震體驗車 → <strong>賴啟宏</strong></li></ul>\n<h2>救護科</h2>\n<ul class=\"bullets\"><li>救護紀錄表（EPCR）審核管理（紙本）、救護月報表（慰問卡、救護車行車紀錄器、教學及複訓時數成果） → <strong>柯醒翰</strong></li><li>救護（防疫）器耗材管理、OHCA及特殊案件影片彙整、救護品管案件、救護CPR宣導、救護交辦案件 → <strong>林景煒</strong></li></ul>\n<h2>預防科</h2>\n<ul class=\"bullets\"><li>防火管理資料受理＆審核、公安聯合稽查 → <strong>徐子軒</strong></li><li>防火（防溺）宣導業務、清明專案、防災青年團招募 → <strong>吳姵岫</strong></li><li>脆弱家庭提報、工廠診斷、防災報馬仔、住警器專案、災後訪視、學生賃居專案 → <strong>喻瑋萱</strong></li><li>服務區專案、安管系統管理、未成立管委會場所管制、停歇系統管理 → <strong>張浩偉</strong></li></ul>\n<h2>危管科</h2>\n<ul class=\"bullets\"><li>爆竹煙火管理、宮廟查察、違建活動 → <strong>吳姵岫</strong></li><li>熱水器補助審查、燃氣熱水器承裝業檢查、CO居訪、潛勢戶複查 → <strong>張家豪</strong></li><li>危險物品暨可燃性氣體、液化石油氣供應場所及瓦斯行查察 → <strong>楊典元</strong></li></ul>\n<h2>搶救科</h2>\n<ul class=\"bullets\"><li>水源業務 → <strong>林育叡</strong></li><li>搶救裝備器材管理、盤點系統 → <strong>陳矩蕙</strong></li><li>火災搶救資料庫製作管理、分隊代表隊、大隊實兵演練、搶救類案件敘獎 → <strong>謝佳諫</strong></li></ul>\n<h2>指揮中心</h2>\n<ul class=\"bullets\"><li>指揮中心相關業務 → <strong>林景煒</strong></li></ul>\n<h2>人事室</h2>\n<ul class=\"bullets\"><li>假表管理、超勤、不休假獎金、國旅卡核銷管制、健康檢查核銷作業、替代役管理、新生報表 → <strong>朱文豪</strong></li><li>分隊康樂活動辦理 → <strong>楊典元</strong></li></ul>\n<h2>火鑑中心</h2>\n<ul class=\"bullets\"><li>火調筆錄、火災證明管理、子女獎學金 → <strong>喻瑋萱</strong></li></ul>\n<h2>車保中心</h2>\n<ul class=\"bullets\"><li>車輛保養管控、油料核銷及路碼表登錄、行車紀錄影像抽測管理、人員駕駛訓練 → <strong>蘇偉銘</strong></li></ul>\n<h2>職安室</h2>\n<ul class=\"bullets\"><li>職安股業務協辦 → <strong>謝佳諫</strong></li></ul>\n<h2>訓練科</h2>\n<ul class=\"bullets\"><li>訓練科相關業務 → <strong>張睿哲</strong></li></ul>\n<h2>民力科</h2>\n<ul class=\"bullets\"><li>義消業務承辦 → <strong>尤睿蓁</strong></li><li>防宣義消業務辦 → <strong>葉奕鑫</strong></li></ul>","items":[],"files":[],"images":[],"works":[],"embed":"","count":0,"search":"業務職掌 依業務科別查詢承辦人，115.08.01 第五版 ## 小隊長綜理督導\n- 綜理本分隊各項勤、業務工作 → **張家瑋**\n- 業管及督導本分隊搶救科、職安室、救護科、指揮中心、宣導科、人事室業務 → **劉家權**\n- 業管及督導本分隊訓練科、資通科、整備科、滅災科、火災鑑識中心、車輛保養中心、會計室業務 → **李枝青**\n\n## 會計室\n- 總務 → **蔡宗延**\n\n## 秘書室\n- 水電統計、廳舍修繕、財產及物品管理 → **蔡宗延**\n- 伙食管理、簿冊及文書檔案管理 → **蘇偉銘**\n\n## 政風室\n- 銅鏡專案 → **蔡宗延**\n\n## 資通科\n- 資通訊及無線電管理 → **賴啟宏**\n\n## 整備科\n- 災情查通報、社區防災演習支援規劃 → **賴啟宏**\n\n## 滅災科\n- 防災企業、防災社區、地震體驗車 → **賴啟宏**\n\n## 救護科\n- 救護紀錄表（epcr）審核管理（紙本）、救護月報表（慰問卡、救護車行車紀錄器、教學及複訓時數成果） → **柯醒翰**\n- 救護（防疫）器耗材管理、ohca及特殊案件影片彙整、救護品管案件、救護cpr宣導、救護交辦案件 → **林景煒**\n\n## 預防科\n- 防火管理資料受理＆審核、公安聯合稽查 → **徐子軒**\n- 防火（防溺）宣導業務、清明專案、防災青年團招募 → **吳姵岫**\n- 脆弱家庭提報、工廠診斷、防災報馬仔、住警器專案、災後訪視、學生賃居專案 → **喻瑋萱**\n- 服務區專案、安管系統管理、未成立管委會場所管制、停歇系統管理 → **張浩偉**\n\n## 危管科\n- 爆竹煙火管理、宮廟查察、違建活動 → **吳姵岫**\n- 熱水器補助審查、燃氣熱水器承裝業檢查、co居訪、潛勢戶複查 → **張家豪**\n- 危險物品暨可燃性氣體、液化石油氣供應場所及瓦斯行查察 → **楊典元**\n\n## 搶救科\n- 水源業務 → **林育叡**\n- 搶救裝備器材管理、盤點系統 → **陳矩蕙**\n- 火災搶救資料庫製作管理、分隊代表隊、大隊實兵演練、搶救類案件敘獎 → **謝佳諫**\n\n## 指揮中心\n- 指揮中心相關業務 → **林景煒**\n\n## 人事室\n- 假表管理、超勤、不休假獎金、國旅卡核銷管制、健康檢查核銷作業、替代役管理、新生報表 → **朱文豪**\n- 分隊康樂活動辦理 → **楊典元**\n\n## 火鑑中心\n- 火調筆錄、火災證明管理、子女獎學金 → **喻瑋萱**\n\n## 車保中心\n- 車輛保養管控、油料核銷及路碼表登錄、行車紀錄影像抽測管理、人員駕駛訓練 → **蘇偉銘**\n\n## 職安室\n- 職安股業務協辦 → **謝佳諫**\n\n## 訓練科\n- 訓練科相關業務 → **張睿哲**\n\n## 民力科\n- 義消業務承辦 → **尤睿蓁**\n- 防宣義消業務辦 → **葉奕鑫**"},{"id":"公務/換車操作步驟","name":"換車操作步驟","icon":"🚑","type":"doc","desc":"EPCR 系統更換車輛代碼流程與注意事項","body":"","items":[],"files":[],"images":[{"full":"assets/%E5%85%AC%E5%8B%99/%E6%8F%9B%E8%BB%8A%E6%93%8D%E4%BD%9C%E6%AD%A5%E9%A9%9F/1-%E6%93%8D%E4%BD%9C%E8%AA%AA%E6%98%8E1.jpg","alt":"操作說明1"},{"full":"assets/%E5%85%AC%E5%8B%99/%E6%8F%9B%E8%BB%8A%E6%93%8D%E4%BD%9C%E6%AD%A5%E9%A9%9F/2-%E6%93%8D%E4%BD%9C%E8%AA%AA%E6%98%8E2.jpg","alt":"操作說明2"},{"full":"assets/%E5%85%AC%E5%8B%99/%E6%8F%9B%E8%BB%8A%E6%93%8D%E4%BD%9C%E6%AD%A5%E9%A9%9F/3-%E6%B3%A8%E6%84%8F%E4%BA%8B%E9%A0%851.jpg","alt":"注意事項1"},{"full":"assets/%E5%85%AC%E5%8B%99/%E6%8F%9B%E8%BB%8A%E6%93%8D%E4%BD%9C%E6%AD%A5%E9%A9%9F/4-%E6%B3%A8%E6%84%8F%E4%BA%8B%E9%A0%852.jpg","alt":"注意事項2"}],"works":[{"title":"換車回報","text":"福營分隊，福營91(車牌)已自行變更為福營99(車牌)"}],"embed":"","count":0,"search":"換車操作步驟 epcr 系統更換車輛代碼流程與注意事項 ## 📋 換車回報\n福營分隊，福營91(車牌)已自行變更為福營99(車牌) 操作說明1 操作說明2 注意事項1 注意事項2"}]}];
 
 const $ = id => document.getElementById(id);
 const nav = $('nav'), content = $('content'), empty = $('empty');
